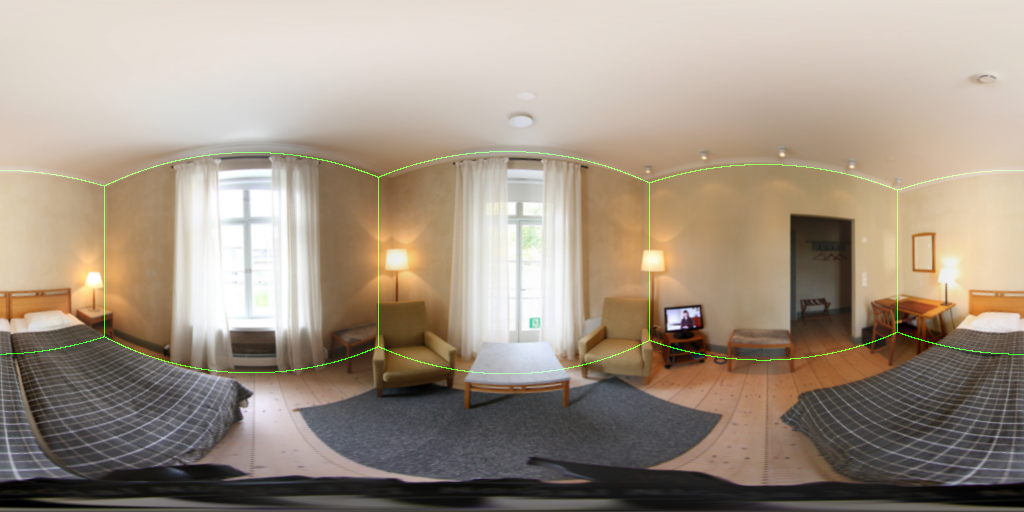
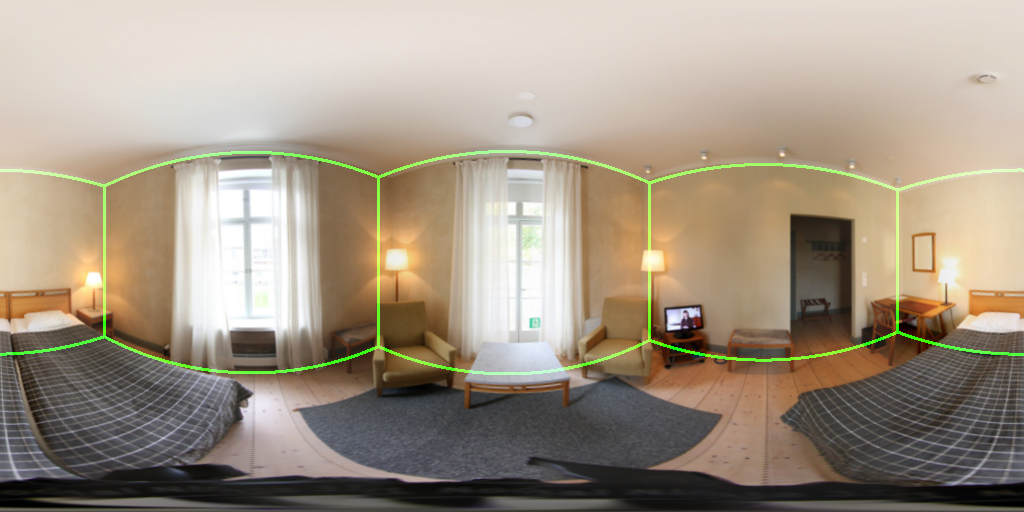
Update README teaser

diff --git a/pano.py b/pano.py
@@ -306,9 +306,12 @@ def draw_boundary_from_cor_id(cor_id, img_src):
     cor_all = np.vstack(cor_all)
 
     rs, cs = lineIdxFromCors(cor_all, im_w, im_h)
+    rs = np.array(rs)
+    cs = np.array(cs)
 
     panoEdgeC = img_src.astype(np.uint8)
-    panoEdgeC[rs, cs, 1] = 255
+    for dx, dy in [[-1, 0], [1, 0], [0, 0], [0, 1], [0, -1]]:
+        panoEdgeC[np.clip(rs+dx, 0, im_h-1), np.clip(cs+dy, 0, im_w-1), 1] = 255
 
     return panoEdgeC
 

diff --git a/README.md b/README.md
@@ -5,6 +5,9 @@ What difference from official:
 - **Pre-processing**: Implementation of *line segment detector* and *pano image alignment* are converted from matlab to python in `pano.py` and `pano_lsd_align.py`.
 - **Post-processing**: No 3D layout optimization. Alternatively, this repo implement a gradient ascent optimizing the similar loss. (see below for more detail)
 
+Overview of the pipeline:
+![](assert/pipeline.png)
+
 Use this repo, you can:
 - extract/visualize layout of your own 360 images with my trained network
 - reproduce official experiments
